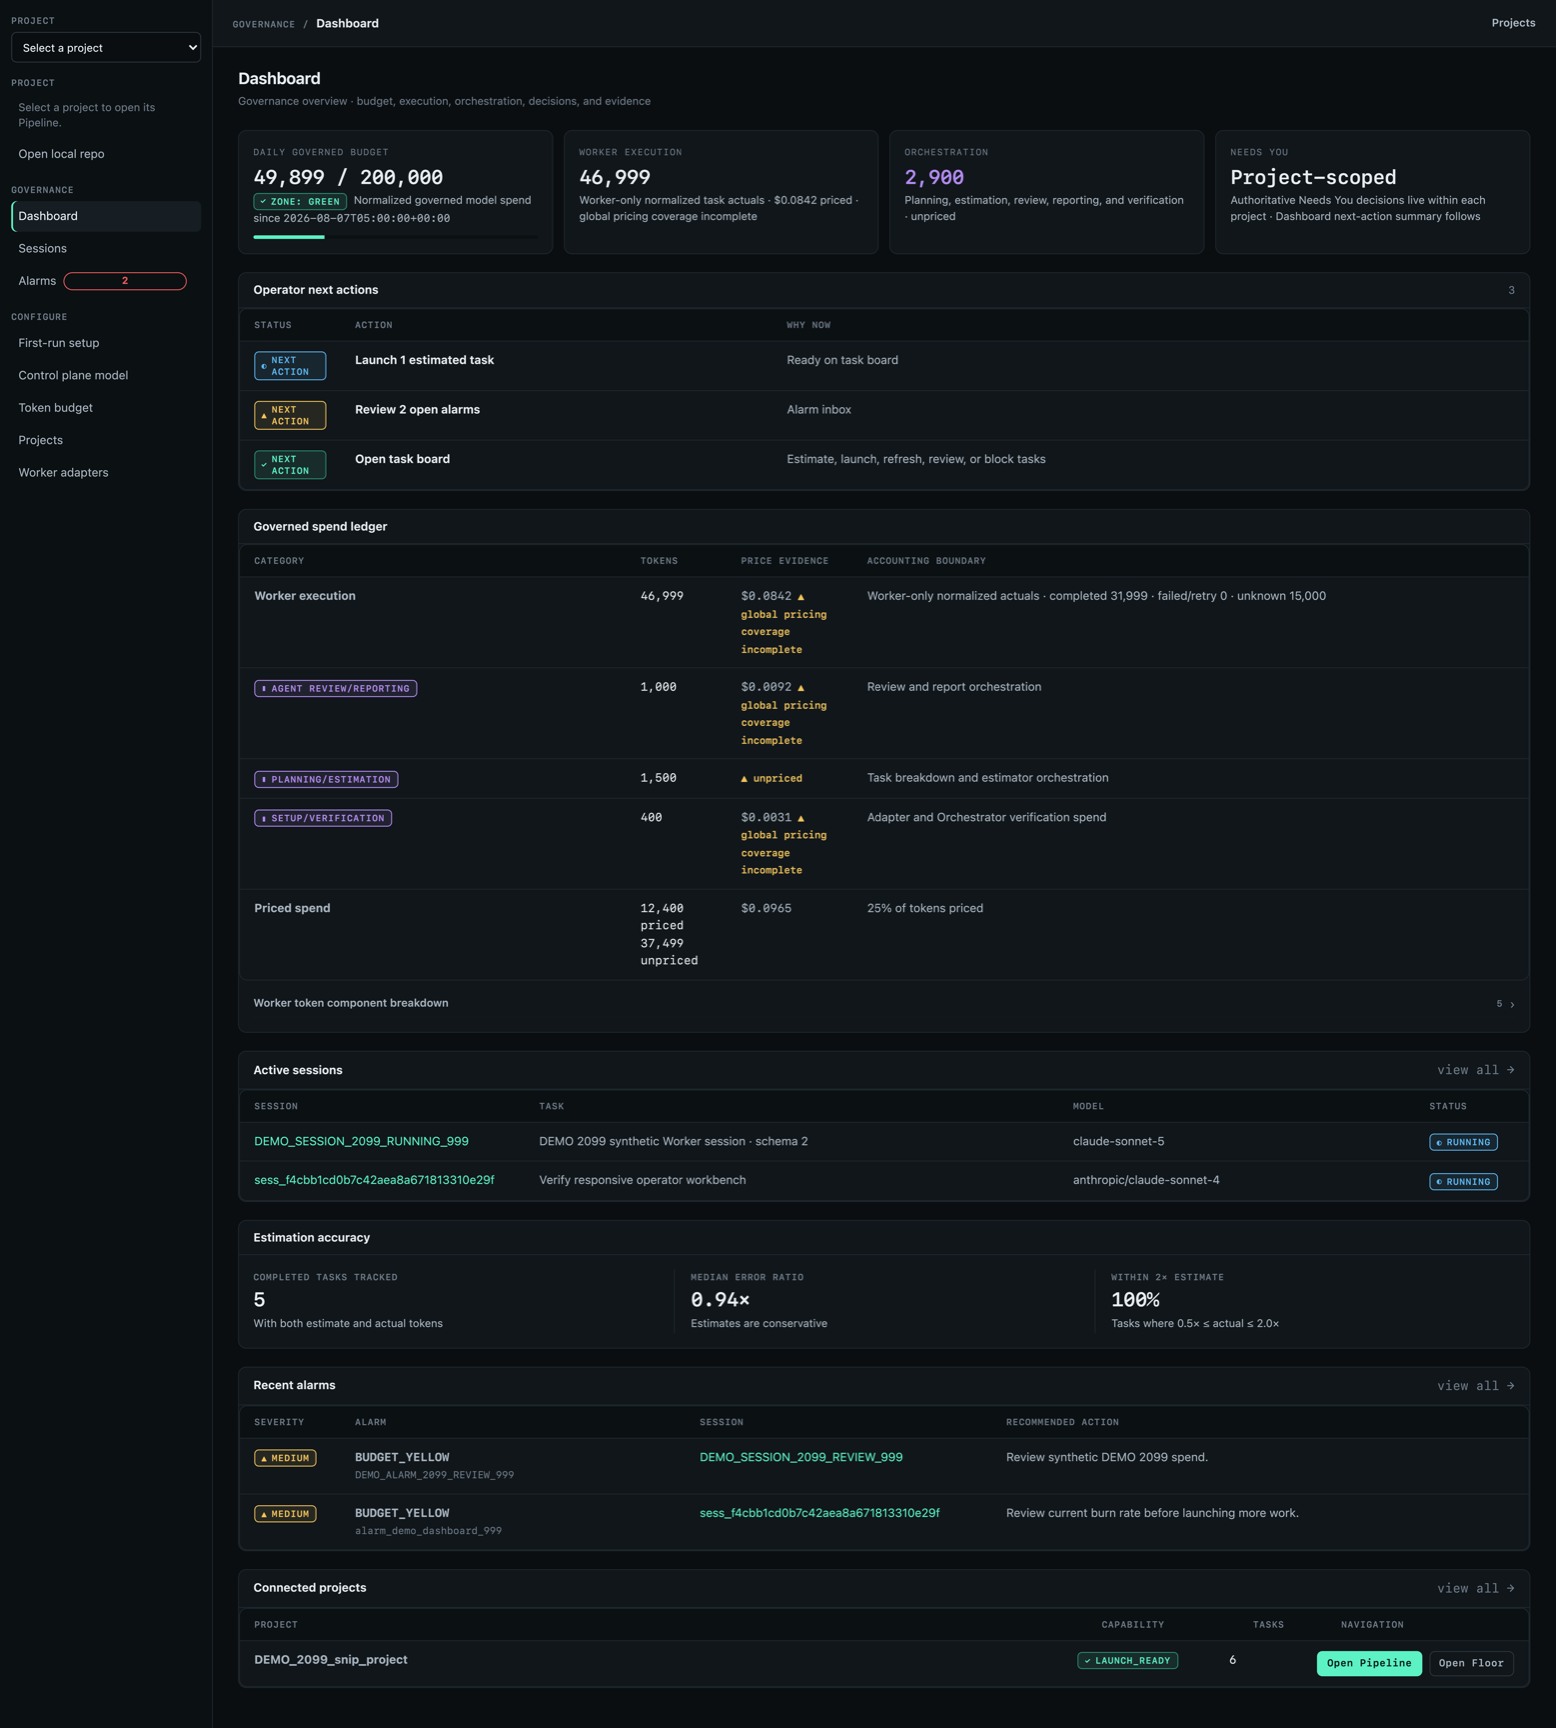
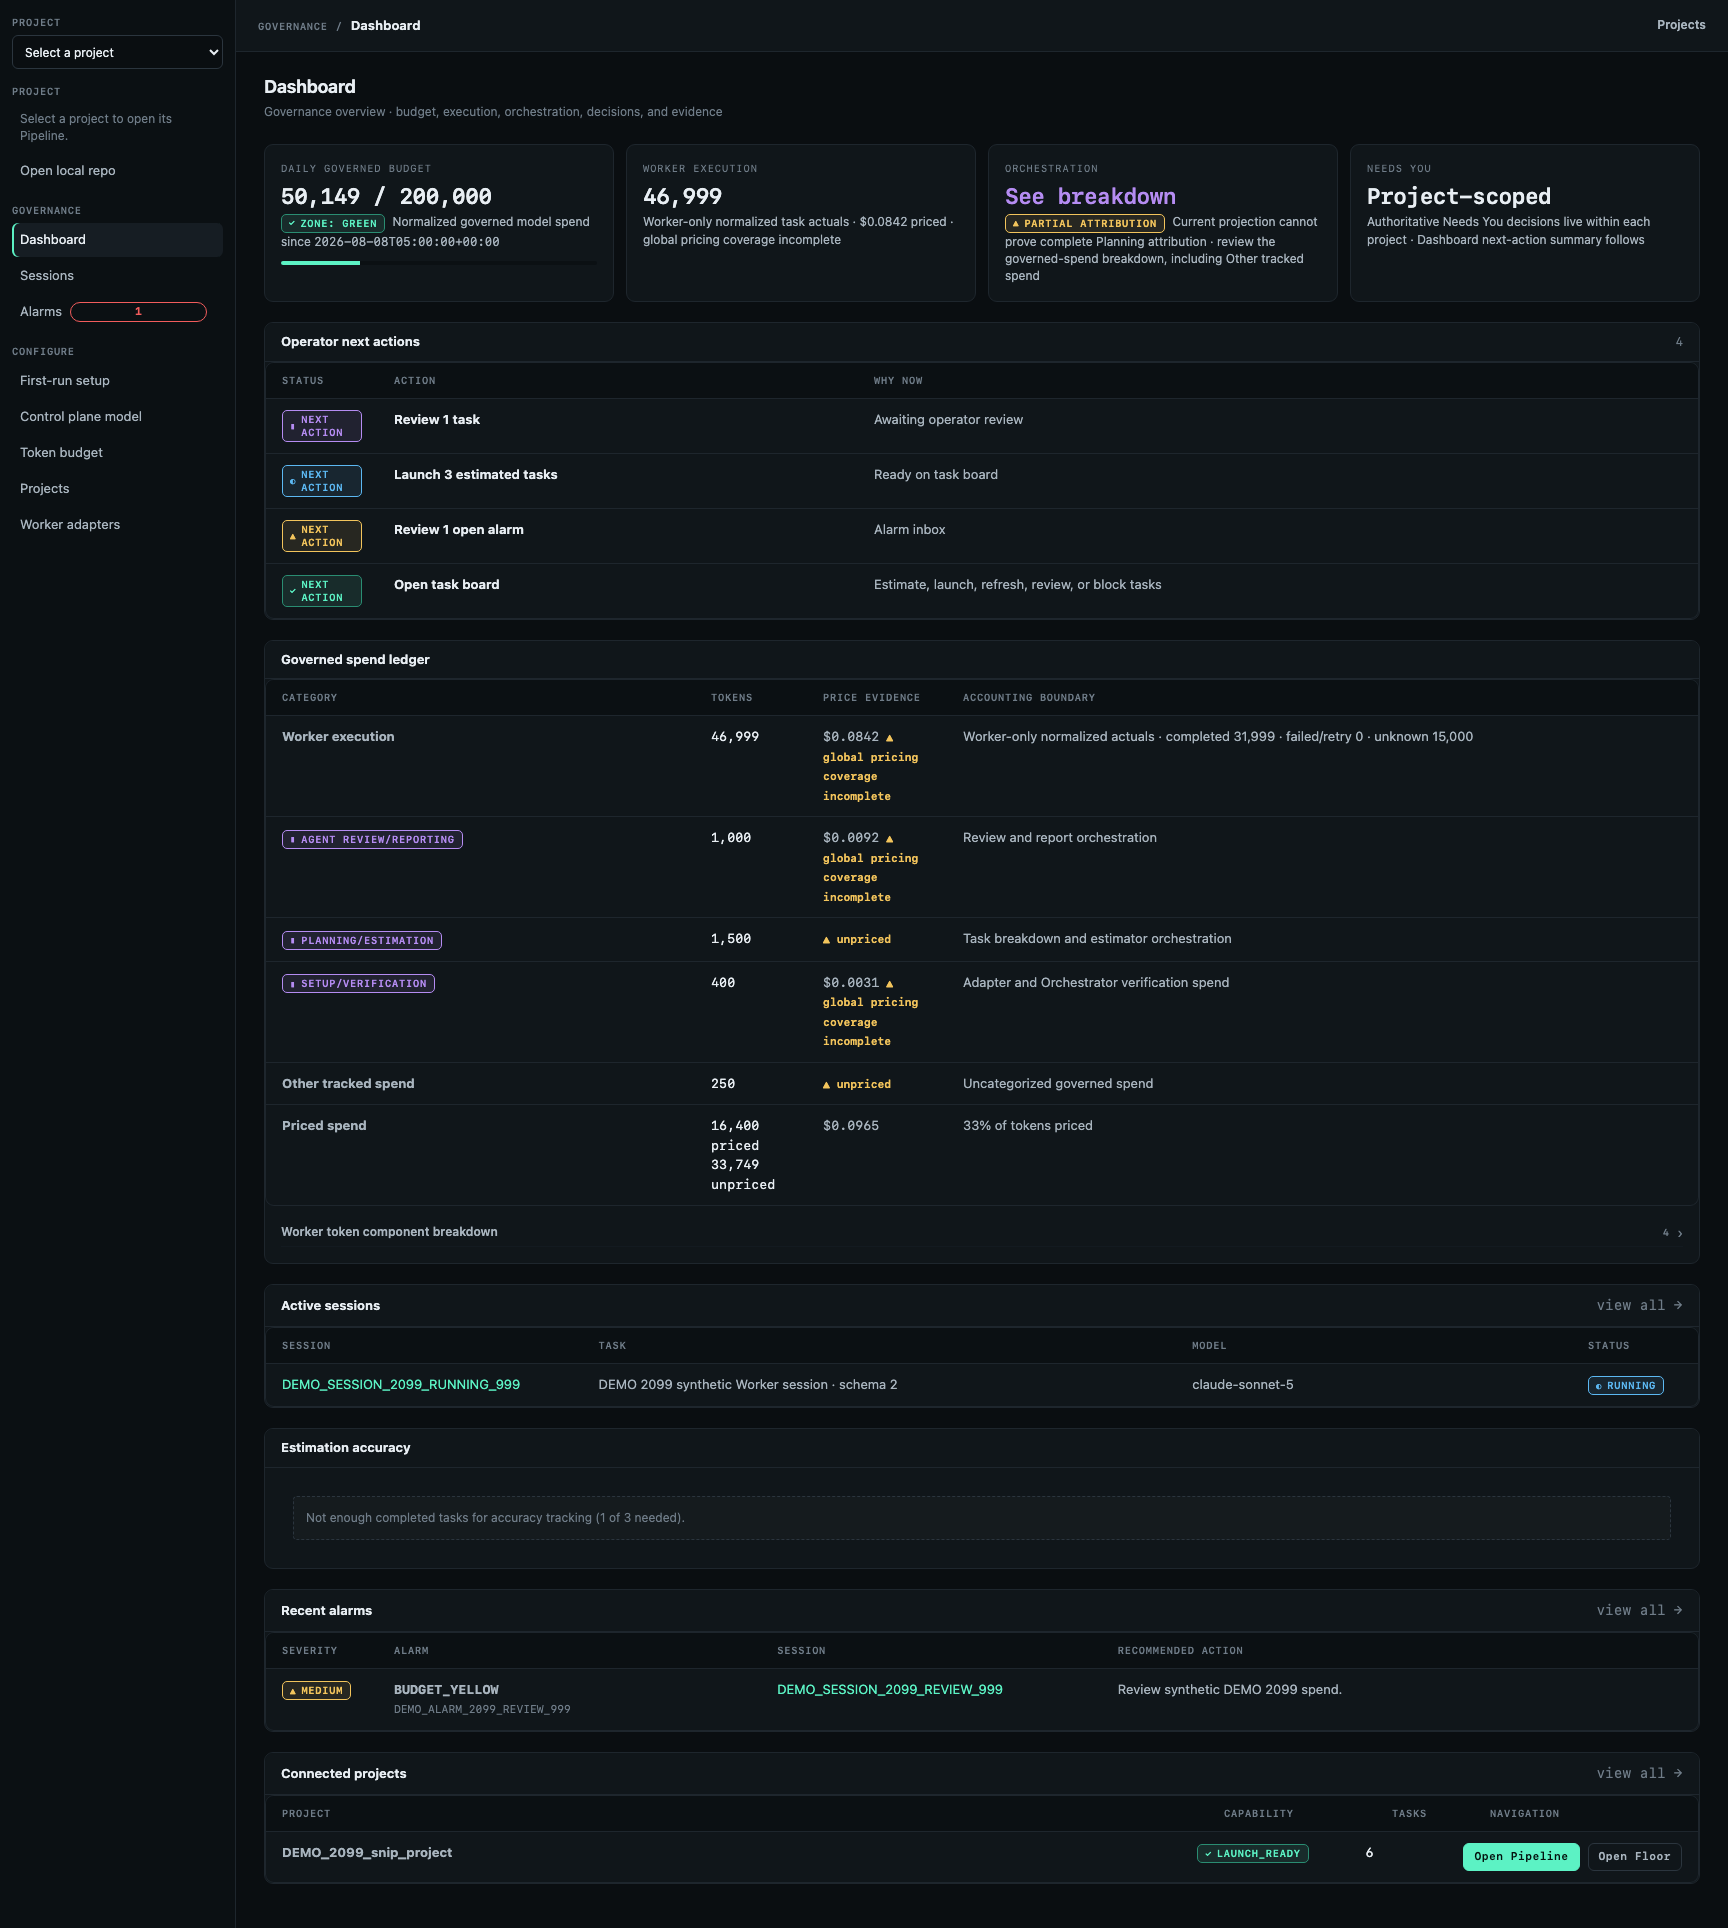
no-mistakes(review): Fix Dashboard recovery and pricing provenance

diff --git a/frontend/src/views/Dashboard.jsx b/frontend/src/views/Dashboard.jsx
@@ -46,7 +46,7 @@ export function DashboardState({ data, error, loading }) {
       <>
         <h1 className="page-title">Dashboard</h1>
         <Notice variant="danger" role="alert">{safeError(error)}</Notice>
-        <p><OwnedLink to="/dashboard">Retry</OwnedLink></p>
+        <p><a href="/dashboard">Retry</a></p>
       </>
     );
   }
@@ -231,7 +231,7 @@ export function DashboardContent({ data }) {
                 {components.cost != null && (
                   <>
                     <div>Reported cost</div>
-                    <div>${Number(components.cost).toFixed(4)}</div>
+                    <div><PriceEvidence value={components.cost} coverageIncomplete={pricingCoverageIncomplete} /></div>
                   </>
                 )}
               </div>
